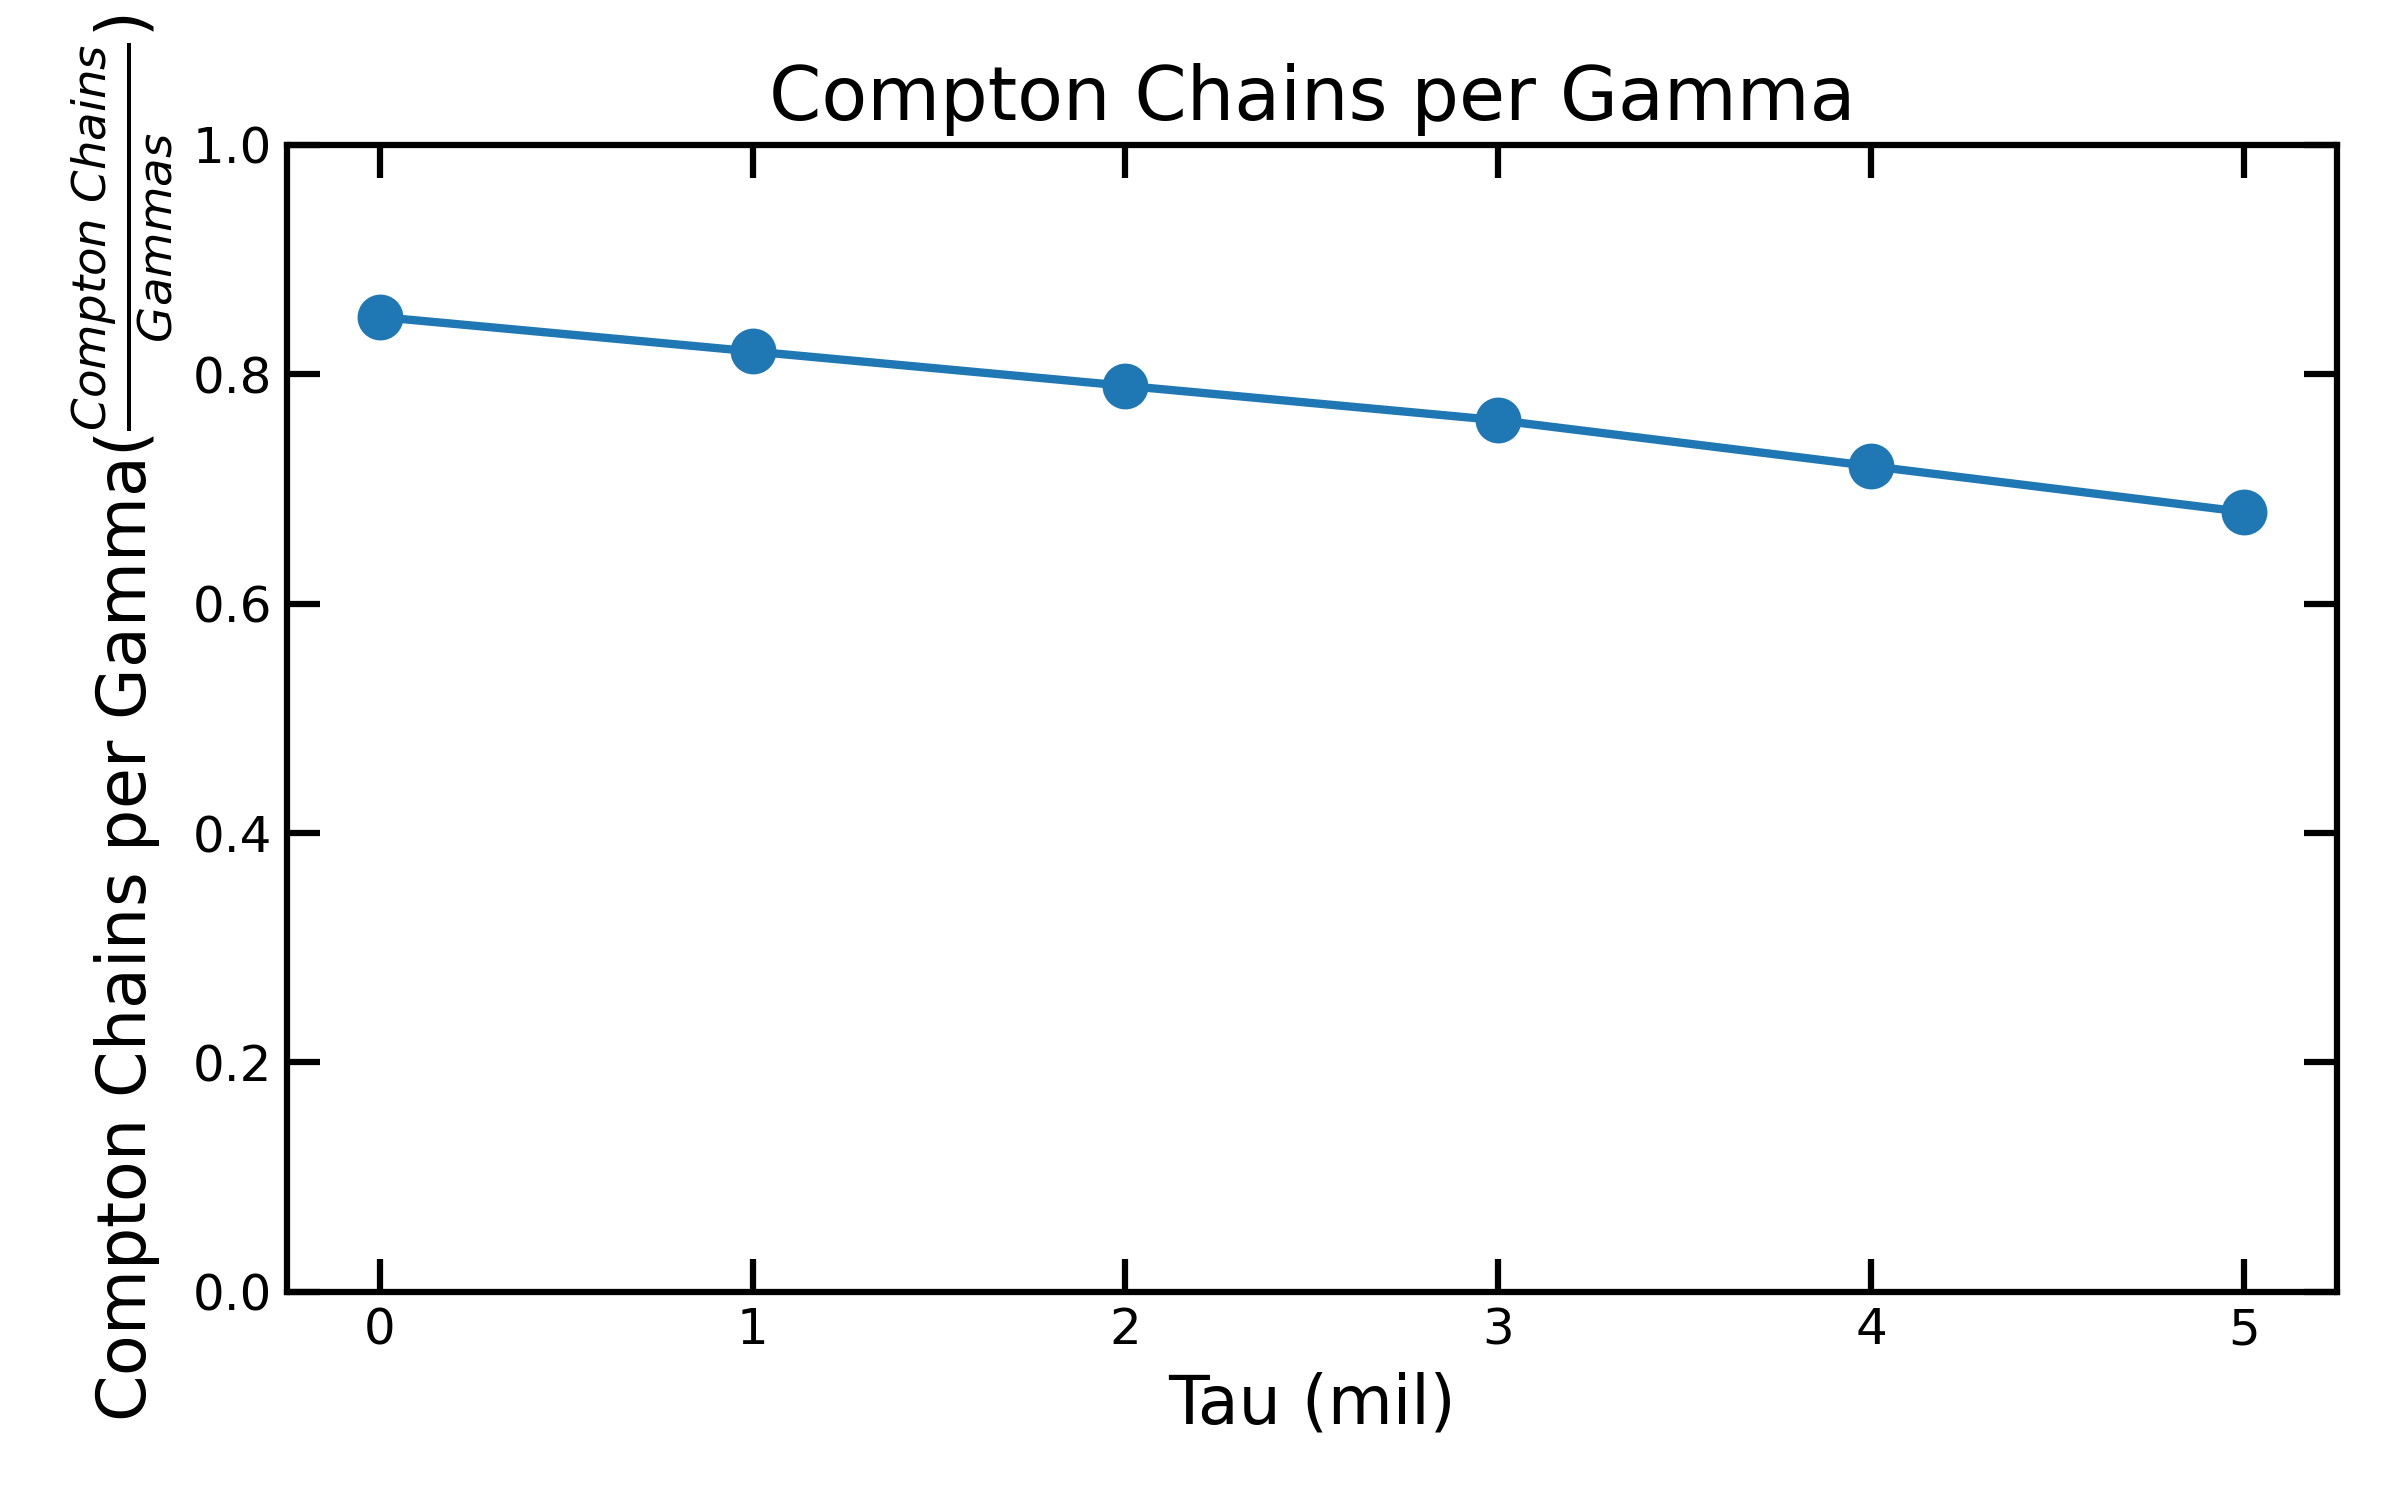
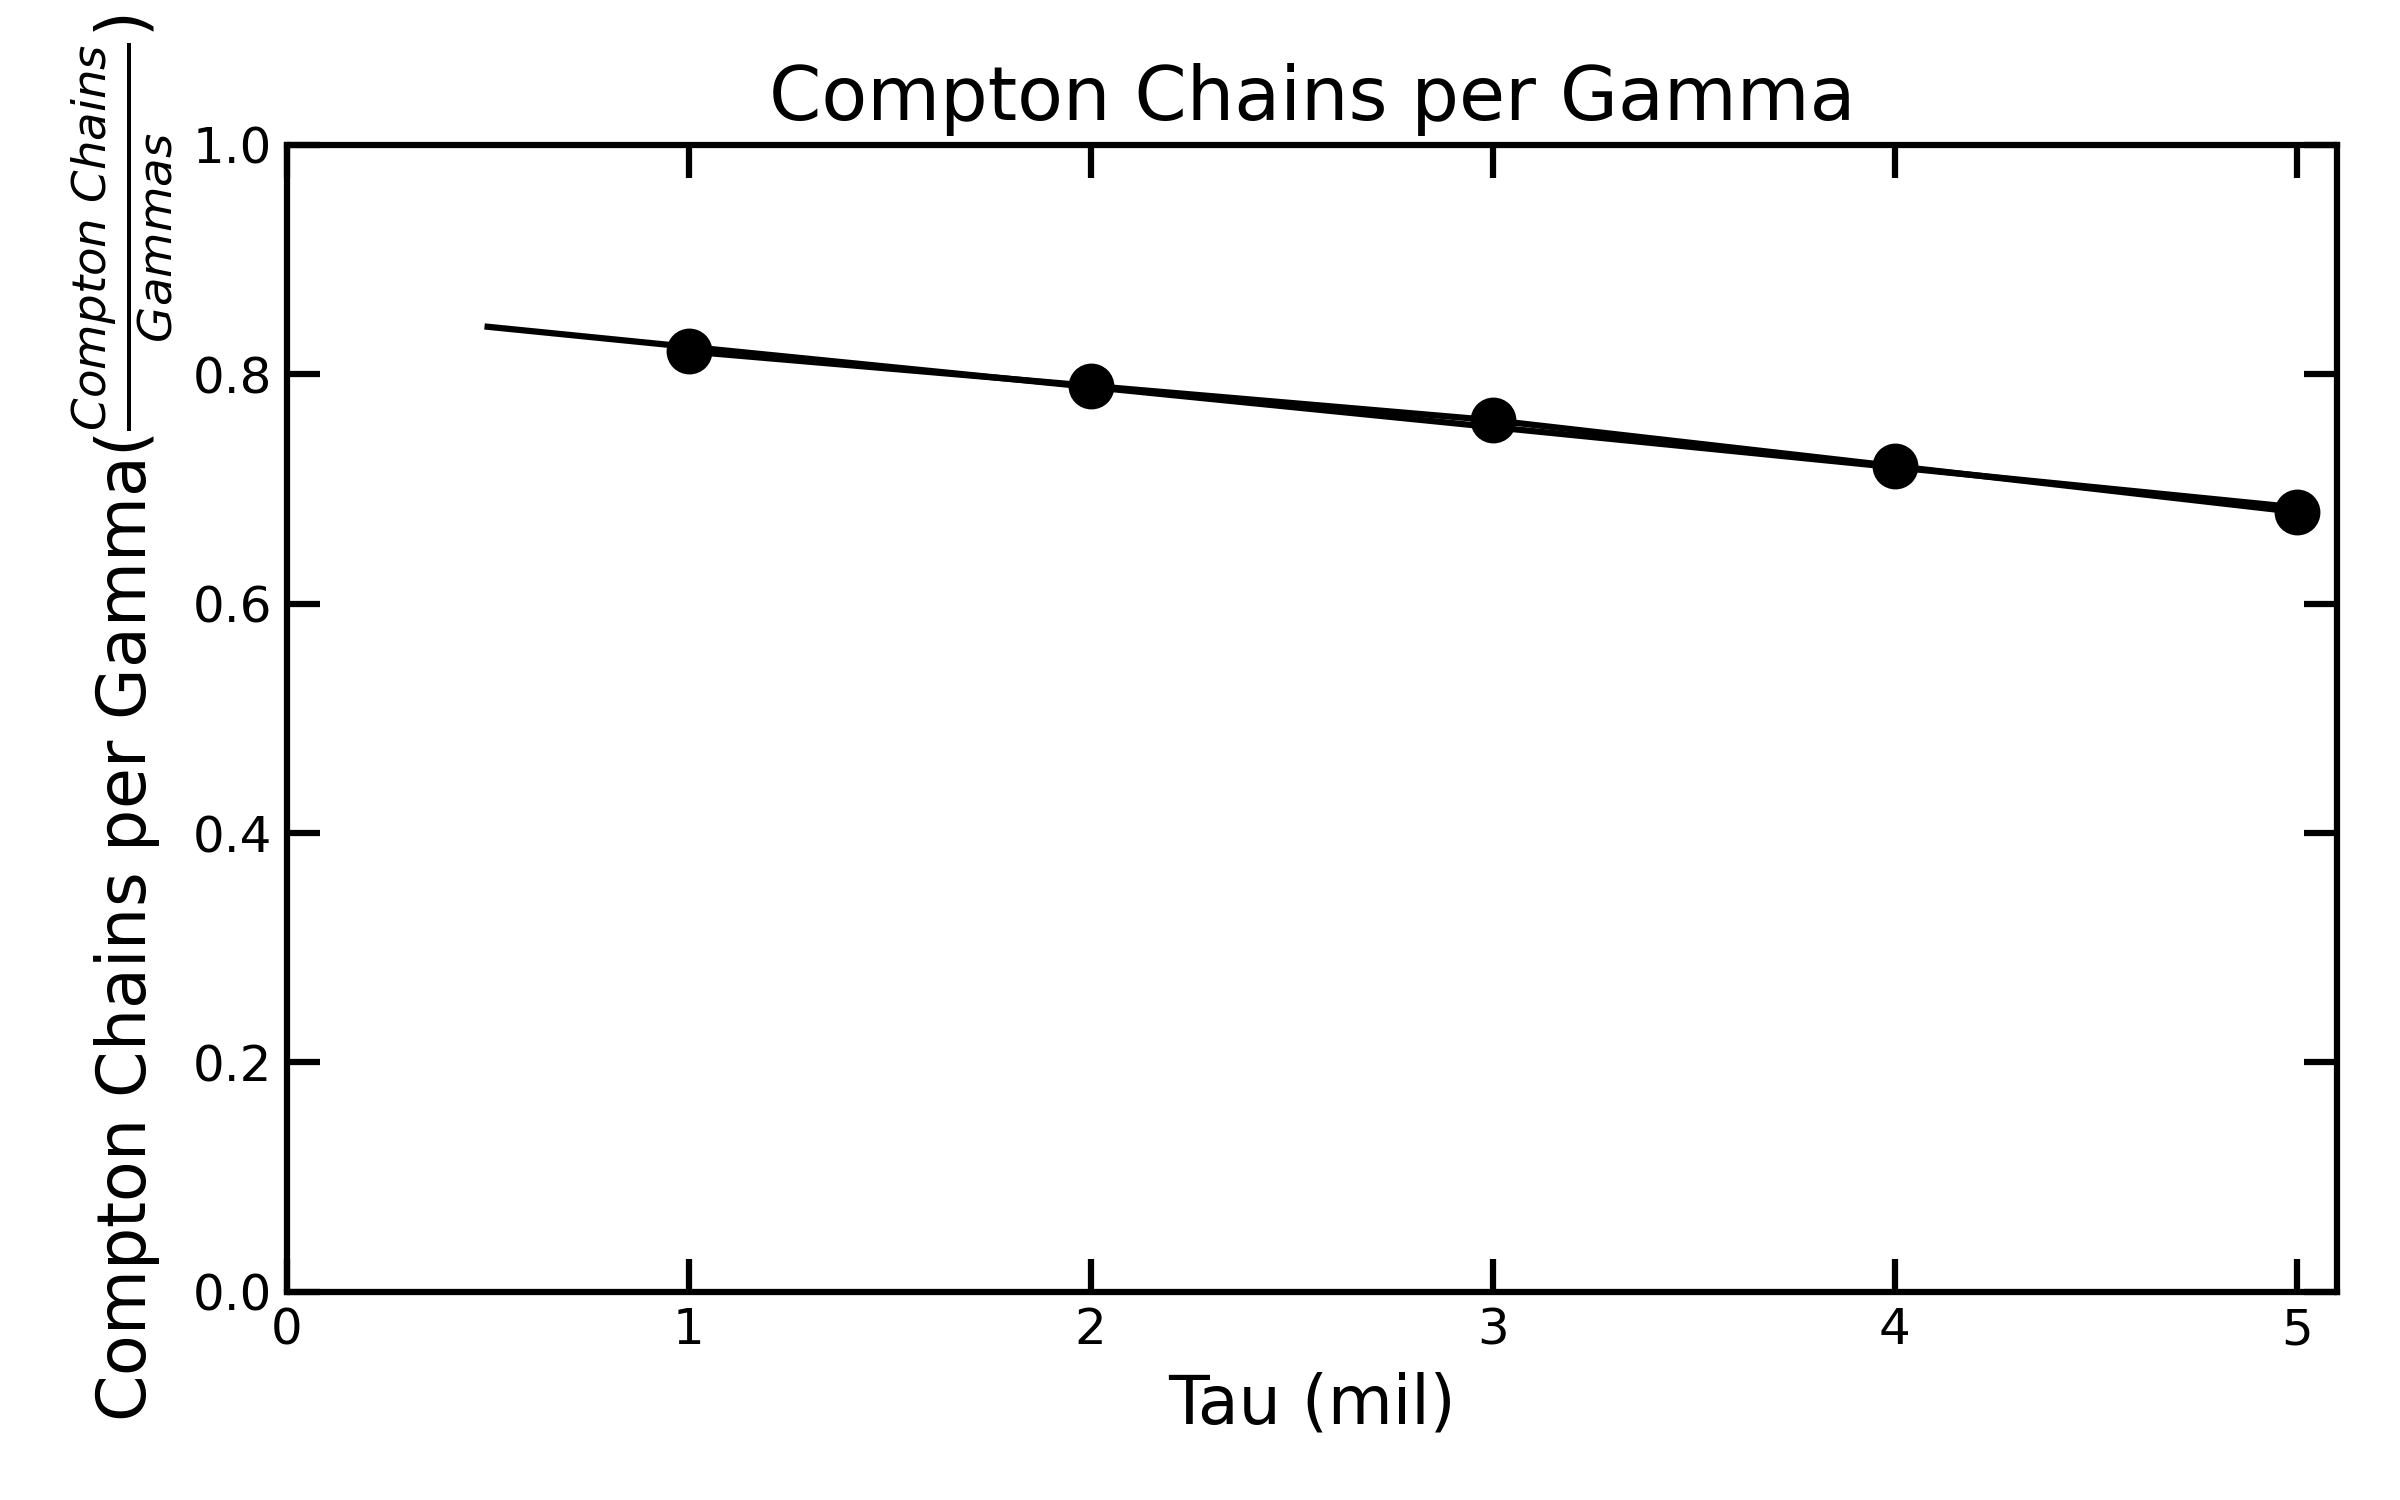
made more changes to plots

diff --git a/scripts/plot_hit_scatter_vs_tau.py b/scripts/plot_hit_scatter_vs_tau.py
@@ -1,14 +1,15 @@
 import matplotlib.pyplot as plt
 from matplotlib.ticker import AutoMinorLocator
+import numpy as np
 
-thickness_mm = [5, 4, 3, 2, 1, 0]
+thickness_mm = np.array([5, 4, 3, 2, 1])
 
-hit_first_scatter_eff = [0.51, 0.56, 0.61, 0.65, 0.65 + (0.65-0.61), 0.65 + 2*(0.65-0.61)]
-hit_second_scatter_eff = [0.33, 0.36, 0.41, 0.46, 0.46 + (0.46-0.41), 0.46 + 2*(0.46-0.41)]
-hit_third_scatter_eff = [0.18, 0.20, 0.24, 0.29, 0.29 + (0.29-0.24), 0.29 + 2*(0.29-0.24)]
+hit_first_scatter_eff = [0.51, 0.56, 0.61, 0.65, 0.65 + (0.65-0.61)]
+hit_second_scatter_eff = [0.33, 0.36, 0.41, 0.46, 0.46 + (0.46-0.41)]
+hit_third_scatter_eff = [0.18, 0.20, 0.24, 0.29, 0.29 + (0.29-0.24)]
 
-first_hit_second_scatter_eff = [0.083, 0.085, 0.086, 0.087, 0.087 + (0.087-0.086), 0.087 + 2*(0.087-0.086)]
-first_hit_third_scatter_eff = [0.032, 0.031, 0.030, 0.028, 0.028 + (0.028-0.030), 0.028 + 2*(0.028-0.030)]
+first_hit_second_scatter_eff = [0.083, 0.085, 0.086, 0.087, 0.087 + (0.087-0.086)]
+first_hit_third_scatter_eff = [0.032, 0.031, 0.030, 0.028, 0.028 + (0.028-0.030)]
 
 # APS-like styling
 plt.rcParams.update({
@@ -29,12 +30,41 @@ plt.rcParams.update({
 
 fig, ax = plt.subplots()
 
+m_first_scatter, b_first_scatter = np.polyfit(thickness_mm, hit_first_scatter_eff, 1)   # slope m, intercept b
+x_line = np.linspace(0.5, thickness_mm.max(), 200)   # includes x = 0
+first_scatter_line = m_first_scatter * x_line + b_first_scatter
+
+m_second_scatter, b_second_scatter = np.polyfit(thickness_mm, hit_second_scatter_eff, 1)   # slope m, intercept b
+x_line = np.linspace(0.5, thickness_mm.max(), 200)   # includes x = 0
+second_scatter_line = m_second_scatter * x_line + b_second_scatter
+
+m_first_hit_second_scatter, b_first_hit_second_scatter = np.polyfit(thickness_mm, first_hit_second_scatter_eff, 1)   # slope m, intercept b
+x_line = np.linspace(0.5, thickness_mm.max(), 200)   # includes x = 0
+first_hit_second_scatter_line = m_first_hit_second_scatter * x_line + b_first_hit_second_scatter
+
+m_third_scatter, b_third_scatter = np.polyfit(thickness_mm, hit_third_scatter_eff, 1)   # slope m, intercept b
+x_line = np.linspace(0.5, thickness_mm.max(), 200)   # includes x = 0
+third_scatter_line = m_third_scatter * x_line + b_third_scatter
+
+m_first_hit_third_scatter, b_first_hit_third_scatter = np.polyfit(thickness_mm, first_hit_third_scatter_eff, 1)   # slope m, intercept b
+x_line = np.linspace(0.5, thickness_mm.max(), 200)   # includes x = 0
+first_hit_third_scatter_line = m_first_hit_third_scatter * x_line + b_first_hit_third_scatter
+
 # Point plot
-ax.plot(thickness_mm, hit_first_scatter_eff, "o-", color="red", markersize=7, linewidth=1.5)
-ax.plot(thickness_mm, hit_second_scatter_eff, "^-", color="green", markersize=7, linewidth=1.5)
-ax.plot(thickness_mm, first_hit_second_scatter_eff, "^--", color="green", markerfacecolor="none", markersize="7", linewidth=1.5)
-ax.plot(thickness_mm, hit_third_scatter_eff, "s-", color="blue", markersize=7, linewidth=1.5)
-ax.plot(thickness_mm, first_hit_third_scatter_eff, "s--", color="blue", markerfacecolor="none", markersize="7", linewidth=1.5)
+ax.plot(thickness_mm, hit_first_scatter_eff, "o", color="red", markersize=7)
+ax.plot(x_line, first_scatter_line, linestyle='-', color='red')
+
+ax.plot(thickness_mm, hit_second_scatter_eff, "^", color="green", markersize=7)
+ax.plot(x_line, second_scatter_line, linestyle='-', color='green')
+
+#ax.plot(thickness_mm, first_hit_second_scatter_eff, "^", color="green", markerfacecolor="none", markersize="7")
+#ax.plot(x_line, first_hit_second_scatter_line, linestyle='--', color='green')
+
+ax.plot(thickness_mm, hit_third_scatter_eff, "s", color="blue", markersize=7)
+ax.plot(x_line, third_scatter_line, linestyle='-', color='blue')
+
+#ax.plot(thickness_mm, first_hit_third_scatter_eff, "s", color="blue", markerfacecolor="none", markersize="7")
+#ax.plot(x_line, first_hit_third_scatter_line, linestyle='--', color='blue')
 
 # Labels
 ax.set_xlabel(r"Thickness Tau (mils)", fontsize = 14)
@@ -44,9 +74,10 @@ ax.set_title("Hits per Scatter vs Tau")
 # Minor ticks
 ax.xaxis.set_minor_locator(AutoMinorLocator(2))
 ax.yaxis.set_minor_locator(AutoMinorLocator(2))
-ax.set_ylim(1e-2, 1)
-ax.set_yscale("log")
-#ax.set_xlim(0, 5.1)
+#ax.set_ylim(1e-2, 1)
+ax.set_ylim(0, 1)
+#ax.set_yscale("log")
+ax.set_xlim(0, 5.1)
 
 plt.tight_layout()
 plt.savefig("plots/hit_scatter_vs_thickness.png", dpi=300)

diff --git a/scripts/plot_lors_per_annihil.py b/scripts/plot_lors_per_annihil.py
@@ -3,26 +3,45 @@ import matplotlib.pyplot as plt
 from matplotlib.ticker import MultipleLocator, AutoMinorLocator, FormatStrFormatter
 from matplotlib.ticker import LogLocator, NullFormatter
 
-tau  = np.array([5, 4, 3, 2, 1, 0])
-lors_per_annihilation = np.array([0.51, 0.57, 0.63, 0.69, 0.69 + (0.69 - 0.63), 0.69 + (0.69 - 0.63)*2])
-lors11_per_annihilation = np.array([0.17, 0.19, 0.21, 0.23, 0.23 + (0.23 - 0.21), 0.23 + (0.23 - 0.21)*2])
-lors12_per_annihilation = np.array([0.13, 0.14, 0.15, 0.16, 0.16 + (0.16 - 0.15), 0.16 + (0.16 - 0.15)*2])
-lors22_per_annihilation = np.array([0.024, 0.026, 0.028, 0.029, 0.029 + (0.029 - 0.028), 0.029 + (0.029 - 0.028)*2])
+tau  = np.array([5, 4, 3, 2, 1])
+lors_per_annihilation = np.array([0.51, 0.57, 0.63, 0.69, 0.69 + (0.69 - 0.63)])
+lors11_per_annihilation = np.array([0.17, 0.19, 0.21, 0.23, 0.23 + (0.23 - 0.21)])
+lors12_per_annihilation = np.array([0.13, 0.14, 0.15, 0.16, 0.16 + (0.16 - 0.15)])
+lors22_per_annihilation = np.array([0.024, 0.026, 0.028, 0.029, 0.029 + (0.029 - 0.028)])
+
+m_lor, b_lor = np.polyfit(tau, lors_per_annihilation, 1)   # slope m, intercept b
+x_line = np.linspace(0.5, tau.max(), 200)   # includes x = 0
+lors_line = m_lor * x_line + b_lor
+
+m_lor11, b_lor11 = np.polyfit(tau, lors11_per_annihilation, 1)
+lors11_line = m_lor11 * x_line + b_lor11
+
+m_lor12, b_lor12 = np.polyfit(tau, lors12_per_annihilation, 1)
+lors12_line = m_lor12 * x_line + b_lor12
+
+m_lor22, b_lor22 = np.polyfit(tau, lors22_per_annihilation, 1)
+lors22_line = m_lor22 * x_line + b_lor22
 
 fig, ax = plt.subplots()
-ax.plot(tau, lors_per_annihilation, 'o-', ms = 10, linewidth=2)
-ax.plot(tau, lors11_per_annihilation, '^-', ms = 10, linewidth=2)
-ax.plot(tau, lors12_per_annihilation, 's-', ms = 10, linewidth=2)
-ax.plot(tau, lors22_per_annihilation, 'x-', ms = 10, linewidth=2)
+ax.plot(tau, lors_per_annihilation, 'o', ms = 10, color = 'black')
+ax.plot(x_line, lors_line, linestyle="-", color="black")
+
+ax.plot(tau, lors11_per_annihilation, '^', ms = 10, color='red')
+ax.plot(x_line, lors11_line, linestyle="-", color="red")
+
+ax.plot(tau, lors12_per_annihilation, 's', ms = 10, color='blue')
+ax.plot(x_line, lors12_line, linestyle='-', color='blue')
+
+ax.plot(tau, lors22_per_annihilation, 'x', ms = 10, color='green')
+ax.plot(x_line, lors22_line, linestyle='-', color='green')
 
 ax.set_xlabel("Tau (mil)", fontsize=16)
 ax.set_ylabel(r"LORs Per Annhilation $\frac{LORs}{Annihilaitons}$", fontsize=16)
 ax.set_title("LORs Per Annihilation v.s Tau", fontsize=18)
 
 # --- Axes limits ---
-#ax.set_xlim(0, 5.1)
-#ax.set_ylim(np.log10(0.02), np.log10(1.00))   # accommodates full data range
 ax.set_yscale("log")
+ax.set_xlim(0, 5.1)
 ax.set_ylim(1e-2, 1)   # now you should see 10^-2, 10^-1, 10^0
 ax.tick_params(axis="y", which="minor", labelsize=10, direction="in")
 ax.tick_params(axis="y", which="major", labelsize=10, direction="in")

diff --git a/scripts/plot_chains_per_gamma.py b/scripts/plot_chains_per_gamma.py
@@ -2,8 +2,12 @@ import numpy as np
 import matplotlib.pyplot as plt
 from matplotlib.ticker import MultipleLocator, AutoMinorLocator, FormatStrFormatter
 
-tau  = np.array([5, 4, 3, 2, 1, 0])
-chains_per_gamma = np.array([0.68, 0.72, 0.76, 0.79, 0.79 + (0.79 - 0.76), 0.79 + (0.79 - 0.76)*2])
+tau  = np.array([5, 4, 3, 2, 1])
+chains_per_gamma = np.array([0.68, 0.72, 0.76, 0.79, 0.79 + (0.79 - 0.76)])
+
+m, b = np.polyfit(tau, chains_per_gamma, 1)   # slope m, intercept b
+x_line = np.linspace(0.5, tau.max(), 200)   # includes x = 0
+y_line = m * x_line + b
 
 plt.rcParams.update({
     "figure.figsize": (8, 5),
@@ -16,14 +20,16 @@ plt.rcParams.update({
 })
 
 fig, ax = plt.subplots()
-ax.plot(tau, chains_per_gamma, marker='o', ms = 10, linewidth=2)
+ax.plot(tau, chains_per_gamma, marker='o', ms = 10, color="black")
+ax.plot(x_line, y_line, linestyle="-", color="black")
+
 
 ax.set_xlabel("Tau (mil)", fontsize=16)
 ax.set_ylabel(r"Compton Chains per Gamma($\frac{Compton \ Chains}{Gammas}$)", fontsize=16)
 ax.set_title("Compton Chains per Gamma", fontsize=18)
 
 # --- Axes limits ---
-#ax.set_xlim(0.0, 5.1)
+ax.set_xlim(0.0, 5.1)
 ax.set_ylim(0.0, 1.00)   # accommodates full data range
 
 
